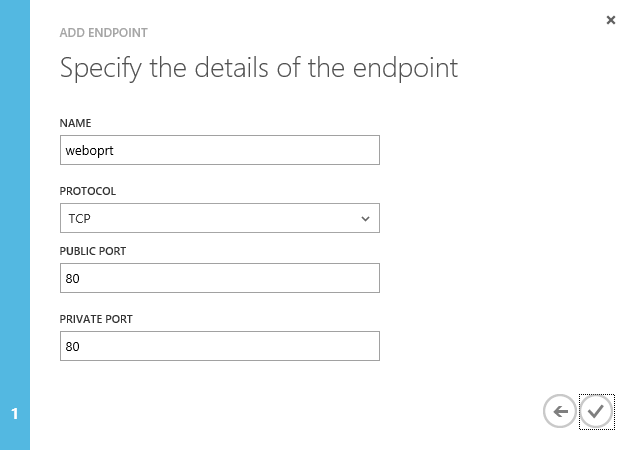
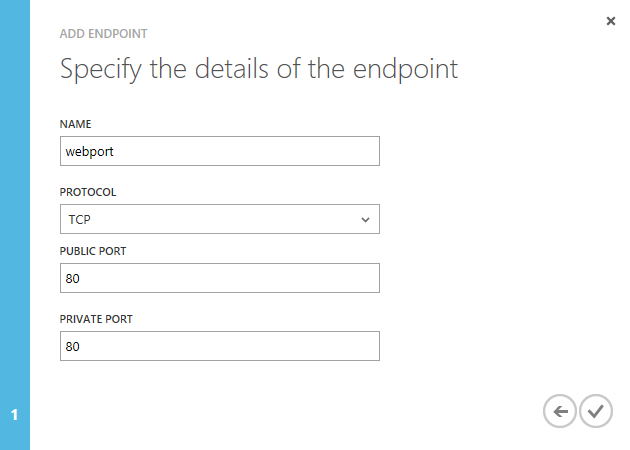
Fixed typos and namings

diff --git a/HOL.md b/HOL.md
@@ -18,7 +18,7 @@ In this hands-on lab, you will learn how to:
 - Create a Web Farm using Windows Azure Management Portal
 - Configure Load Balancing in IIS
 - Deploy a Simple MVC4 Application that consumes SQL Server Features
-- Create a VM with SQL Server Full-Text Search feature to be consumed by the MVC Application
+- Create a Virtual Machine with SQL Server Full-Text Search feature to be consumed by the MVC Application
 
 <a name="Prerequisites"></a>
 ### Prerequisites ###
@@ -34,8 +34,8 @@ The following is required to complete this hands-on lab:
 
 This hands-on lab includes the following exercises:
 
-1. [Creating VMs for IIS](#Exercise1)
-1. [Creating a SQL Server VM](#Exercise2)
+1. [Creating Virtual Machines for IIS](#Exercise1)
+1. [Creating a SQL Server Virtual Machine](#Exercise2)
 1. [Deploying a Simple MVC4 Application](#Exercise3)
 
 Estimated time to complete this lab: **45 minutes**.
@@ -62,7 +62,7 @@ In this task, you will provision a Virtual Machine and configure the Load Balanc
 
 1. In the Virtual Machine Configuration page, set the version release date to **February 12, 2013**. Enter the Virtual Machine Name (i.e. "iisvm1") and the administrator user's Password. This password needs to contain three of these – lower case characters, uppercase characters, numbers and special characters. Make sure you remember your choice. Click the right arrow to continue.
 
-	![Configuring a Custom VM](images/creating-a-vm-configuration.png?raw=true)
+	![Configuring a Custom Virtual Machine](images/creating-a-vm-configuration.png?raw=true)
 	 
 	_Creating a Virtual Machine - Configuration_
  
@@ -72,19 +72,19 @@ In this task, you will provision a Virtual Machine and configure the Load Balanc
  
 1. In the **Virtual Machine Mode** page, select **Standalone Virtual Machine**, enter the **DNS Name**, select a **Storage Account** or leave the default value _Use Automatically Generated Storage Account_, and select a **Region/Affinity Group/Virtual Network**. Click the **right arrow** to continue. 
 
-	![Configuring a Custom VM, VM Mode](images/creating-a-vm-vm-mode.png?raw=true)
+	![Configuring a Custom Virtual Machine, Virtual Machine Mode](images/creating-a-vm-vm-mode.png?raw=true)
  
-	_Creating a Virtual Machine - VM Mode_
+	_Creating a Virtual Machine - Virtual Machine Mode_
 
-1. In the **Virtual Machine Options** page, leave the default values and click the **Finish** button to create a new VM.
+1. In the **Virtual Machine Options** page, leave the default values and click the **Finish** button to create a new Virtual Machine.
 
-	![Creating a VM - VM Options](images/creating-a-vm--vm-options.png?raw=true "Creating a VM - VM Options")
+	![Creating a Virtual Machine - Virtual Machine Options](images/creating-a-vm--vm-options.png?raw=true "Creating a Virtual Machine - Virtual Machine Options")
 
 	_Creating a Virtual Machine - Virtual Machine Options_
 
-1. In the **Virtual Machines** section, you will see the Virtual Machine you created with a _Starting (provisioning)_ status. Wait until it changes to _Running_ in order to continue with the following step as you will need a provisioned VM on the following steps.
+1. In the **Virtual Machines** section, you will see the Virtual Machine you created with a _Starting (provisioning)_ status. Wait until it changes to _Running_ in order to continue with the following step as you will need a provisioned Virtual Machine on the following steps.
 
- 	![Creating VM for IIS Web Farm](./images/creating-vm-for-iis-web-farm.png?raw=true "Creating VM for IIS Web Farm")
+ 	![Creating Virtual Machine for IIS Web Farm](./images/creating-vm-for-iis-web-farm.png?raw=true "Creating Virtual Machine for IIS Web Farm")
  
 	_Creating Virtual Machine for IIS Web Farm_
 
@@ -92,21 +92,21 @@ In this task, you will provision a Virtual Machine and configure the Load Balanc
 
 1. You will now add the second Virtual Machine for the IIS Load Balancing. In the portal, select **New | Compute | Virtual Machine | From Gallery**. 
 
-1. In the **Virtual Machine OS Selection** page, click **Platform Images** on the left menu and select the **Windows Server 2008 R2 SP1, August** OS image from the list. Click the **arrow** to continue.	
+1. In the **Virtual Machine OS Selection** page, click **Platform Images** on the left menu and select the **Windows Server 2008 R2 SP1, February** OS image from the list. Click the **arrow** to continue.	
 
 1. In the **Virtual Machine Configuration** page, set the version release date to **February 12, 2013**. Enter the **Virtual Machine Name** (i.e. "_iisvm2_"), the administrator user's **Password** and the **Size**. Click the **right arrow** to continue.
  
 1. In the **Virtual Machine Mode** page, select **Connect to existing Virtual Machine** and choose the first virtual machine you created from the drop down list. Select a **Storage Account** or leave the default value _Use Automatically Generated Storage Account_ and click the **right arrow** to continue. This step adds the new virtual machine to the cloud service created in the previous step. This allows the virtual machines to be on the same network.
 
 
-	![Configuring a Custom VM, VM Mode](images/creating-a-vm-vm-mode2.png?raw=true)
+	![Configuring a Custom Virtual Machine, Virtual Machine Mode](images/creating-a-vm-vm-mode2.png?raw=true)
 	 
 	_Creating a Virtual Machine - Virtual Machine Mode_
 
  
 1. In the **Virtual Machine Options** page, leave the default values and click the button to create a new Virtual Machine.
 
-1. Wait until the second VM is created. You can check the VM status from the Virtual Machines section within the portal.
+1. Wait until the second Virtual Machine is created. You can check the Virtual Machine status from the Virtual Machines section within the portal.
 
 	> **Note:** It will take from 8 to 10 minutes for the virtual machine to complete the provisioning process.
 
@@ -134,9 +134,9 @@ In this task, you will provision a Virtual Machine and configure the Load Balanc
 
 1. Click **Add Endpoint**, select **Load Balance Traffic On An Existing Endpoint** option. Select the endpoint you created for the first Virtual Machine from the drop down list and then click the **right arrow** to continue.
 
-	![Load Balance Traffic An Existing Endpoint](images/load-balance-traffic-an-an-existing-endpoint.png?raw=true "Load Balance Traffic An Existing Endpoint")
+	![Load Balance Traffic On An Existing Endpoint](images/load-balance-traffic-an-an-existing-endpoint.png?raw=true "Load Balance Traffic An Existing Endpoint")
 
-	_Load Balance Traffic An Existing Endpoint_
+	_Load Balance Traffic On An Existing Endpoint_
 
 1. In the **New Endpoint Details** page, set the **Name** to _webport_ and the **Private Port** to _80_. Click the button to create the endpoint. 
 
@@ -150,14 +150,14 @@ In this task, you will provision a Virtual Machine and configure the Load Balanc
 
 	_Verification: enabling IIS Load Balancing_
 
-1. Click the **Edit Endpoint** button in the bottom bar to enter the endpoint details and verify the load balancing is enabled. Repeat this step in the second VM.
+1. Click the **Edit Endpoint** button in the bottom bar to enter the endpoint details and verify the load balancing is enabled. Repeat this step in the second Virtual Machine.
 
 	![Verification: enabling IIS Load Balancing, details](images/creating-load-balancing-endpoint-2.png?raw=true)
 
 	_Verification: enabling IIS Load Balancing, details_
 
 <a name="Ex1Task2"></a>
-#### Task 2 - Configuring IIS VMs ####
+#### Task 2 - Configuring IIS Virtual Machines ####
 
 In this task, you will configure the IIS Virtual Machines by adding the necessary roles to deploy the MVC application.
 
@@ -222,12 +222,12 @@ In this task, you will configure the IIS Virtual Machines by adding the necessar
 <a name="Exercise2"></a>
 ### Exercise 2: Creating a SQL Server Virtual Machine ###
 
-In this exercise, you will create a new VM and learn how to install SQL Server. You will add disk images to the existing Virtual Machine in order to split the data from the logs generated by SQL Server.
+In this exercise, you will create a new Virtual Machine and learn how to install SQL Server. You will add disk images to the existing Virtual Machine in order to split the data from the logs generated by SQL Server.
 
 <a name="Ex2Task1"></a>
-#### Task 1 - Creating a SQL Server VM ####
+#### Task 1 - Creating a SQL Server Virtual Machine ####
 
-In this task, you will create a new Virtual Machine using the Windows Azure portal in the same Cloud App you deployed the IIS VMs.
+In this task, you will create a new Virtual Machine using the Windows Azure portal in the same Cloud App you deployed the IIS Virtual Machines.
 
 1. In the menu located at the bottom, select **New | Compute | Virtual Machine | From Gallery** to start creating a new virtual machine.
  
@@ -239,7 +239,7 @@ In this task, you will create a new Virtual Machine using the Windows Azure port
  
 1. In the **Virtual Machine Options** page, leave the default values and click the button to create a new Virtual Machine.
 
-1. In the **Virtual Machines** section, you will see the VM you created with a _provisioning_ status. Wait until it changes to _Running_ in order to continue with the following step.
+1. In the **Virtual Machines** section, you will see the Virtual Machine you created with a _provisioning_ status. Wait until it changes to _Running_ in order to continue with the following step.
 
 	> **Note:** It will take from 8 to 10 minutes for the Virtual Machine to complete the provisioning process.
 
@@ -270,7 +270,7 @@ In this task, you will create two empty data disks and attach them to an existin
 
 1. Finally, you need to format the disks in order to access them from the Virtual Machine. To do this, click **Connect** to connect to the Virtual Machine using **Remote Desktop connection**.
 
-1. It will ask you to download the remote desktop settings file. Click **Open** and log on using the Admin credentials you defined when creating the VM.
+1. It will ask you to download the remote desktop settings file. Click **Open** and log on using the Admin credentials you defined when creating the Virtual Machine.
 
 1. In the Virtual Machine, open **Server Manager** from **Start | Administrative Tools**.
 
@@ -324,7 +324,7 @@ In this task, you will configure SQL Server 2012. You will create the database t
 
 1. Restart SQL Server. In the **Object Explorer**, right-click on the server node and select **Restart**. 
 
-1.	In order to enable downloads from Internet Explorer you will need to update **Internet Explorer Enhanced Security Configuration**. In the Azure VM, open **Server Manager** from **Start | Administrative Tools | Server Manager**.
+1.	In order to enable downloads from Internet Explorer you will need to update **Internet Explorer Enhanced Security Configuration**. In the Azure Virtual Machine, open **Server Manager** from **Start | Administrative Tools | Server Manager**.
 
 1. In the **Server Manager**, click **Configure IE ESC** within **Security Information** section.
 
@@ -338,7 +338,7 @@ In this task, you will configure SQL Server 2012. You will create the database t
 	 
 	_Internet Explorer Enhanced Security_
  
-	>**Note:** Modifying **Internet Explorer Enhanced Security** configurations is not good practice and is only for the purpose of this particular lab. The correct approach should be to download the files locally and then copy them to a shared folder or directly to the VM.
+	>**Note:** Modifying **Internet Explorer Enhanced Security** configurations is not good practice and is only for the purpose of this particular lab. The correct approach should be to download the files locally and then copy them to a shared folder or directly to the Virtual Machine.
 
 1. This lab uses the **AdventureWorks** database. Open an **Internet Explorer** browser and go to <http://msftdbprodsamples.codeplex.com/> to download  the **SQL Server 2012** sample databases. Once on the page click on **AdventureWorks Databases – 2008, 2008R2 and 2012** and then download Adventure Works 2012 Data File. Download the file to F:\Data.
 
@@ -456,9 +456,9 @@ In this task, you will configure SQL Server 2012. You will create the database t
 
 1. In the **Action** page, make sure that **Allow the connection** is selected and click **Next**.
 
- 	![New Inbound Rule Wizard(3)](images/new-inbound-rule-wizard3.png?raw=true)
+ 	![Protocol and Ports(3)](images/new-inbound-rule-wizard3.png?raw=true)
  
-	_New Inbound Rule Wizard_
+	_Protocol and Ports_
 
 1. In the **Profile** page, leave the default values and click **Next**.
 
@@ -486,17 +486,17 @@ In this exercise, you will learn how to deploy a simple ASP.NET MVC4 application
 <a name="Ex3Task1"></a>
 #### Task 1 - Deploying a Simple MVC4 Application ####
 
-In this task, you will deploy the MVC4 application to the IIS VMs.
+In this task, you will deploy the MVC4 application to the IIS Virtual Machines.
 
 1. In the Azure Portal, Click **Virtual Machines** on the left menu.
 
-1. You will see a list with your existing VMs. Select the first one you created in Exercise 1 and click **Connect**. If you used the proposed name, this VM's should be named **iisvm1**.
+1. You will see a list with your existing Virtual Machines. Select the first one you created in Exercise 1 and click **Connect**. If you used the proposed name, this Virtual Machine's should be named **iisvm1**.
 
-1. You will be prompted to download the remote desktop client. Click **Open** and log on using the Admin credentials you defined when creating the VM.
+1. You will be prompted to download the remote desktop client. Click **Open** and log on using the Admin credentials you defined when creating the Virtual Machine.
 
 1. You need to install **.NET Framework 4.0** before deploying the MVC4 application. In order to do that, you will enable downloads from IE update **Internet Explorer Enhanced Security Configuration**.
 
-	1. In the Azure VM, open Server Manager from **Start | Administrative Tools**.
+	1. In the Azure Virtual Machine, open Server Manager from **Start | Administrative Tools**.
 
 	1. In the **Server Manager**, click **Configure IE ESC** **within Security Information** **section**.
 
@@ -510,17 +510,17 @@ In this task, you will deploy the MVC4 application to the IIS VMs.
  
 		_Internet Explorer Enhanced Security_
 
-		> **Note:** Modifying Internet Explorer Enhanced Security configurations is not a good practice and it only for the purpose of this particular lab. The correct approach would be to download the files locally and then copy them to a shared folder or directly to the VM.
+		> **Note:** Modifying Internet Explorer Enhanced Security configurations is not a good practice and it only for the purpose of this particular lab. The correct approach would be to download the files locally and then copy them to a shared folder or directly to the Virtual Machine.
 
 1. Now that you have permissions to download files, open an **Internet Explorer** browser session and navigate to [http://go.microsoft.com/fwlink/?linkid=186916](http://go.microsoft.com/fwlink/?linkid=186916). Download and install **.NET Framework 4.0**.
 
-1. Once **.Net Framework 4.0** installation finishes, open **wwwroot** folder located at **C:\inetpub\** and copy the file **CloudShop.zip** located in **CloudShop\Source\Assets** folder of this lab. To do this, copy **CloudShop.zip** (**Ctrl + C**) and paste it (**Ctrl + V**) in the VM's **wwwroot** folder. Extract all files to **C:\inetpub\wwwroot\CloudShop** folder.
+1. Once **.Net Framework 4.0** installation finishes, open **wwwroot** folder located at **C:\inetpub\** and copy the file **CloudShop.zip** located in **CloudShop\Source\Assets** folder of this lab. To do this, copy **CloudShop.zip** (**Ctrl + C**) and paste it (**Ctrl + V**) in the Virtual Machine's **wwwroot** folder. Extract all files to **C:\inetpub\wwwroot\CloudShop** folder.
 
  	![wwwroot folder](./images/wwwroot-folder.png?raw=true "wwwroot folder")
  
 	_wwwroot folder_
 
-1. Open with **Notepad** the **Web.config** file located in **C:\inetpub\wwwroot\CloudShop**. At the end of the file, replace the connection strings placeholder with the name of your SQL Server (by default, is the VM's name).
+1. Open with **Notepad** the **Web.config** file located in **C:\inetpub\wwwroot\CloudShop**. At the end of the file, replace the connection strings placeholder with the name of your SQL Server (by default, is the Virtual Machine's name).
 
 	<!--mark: 1-4-->
 	````XML
@@ -572,7 +572,7 @@ In this task, you will deploy the MVC4 application to the IIS VMs.
 
 1. Close the **Remote Desktop Connection**.
 
-1. Repeat this task in the second VM you created in **Exercise 1 -Task 1**. If you used the proposed name, this VM should be named **iisvm2**.
+1. Repeat this task in the second Virtual Machine you created in **Exercise 1 -Task 1**. If you used the proposed name, this Virtual Machine should be named **iisvm2**.
 
 <a name="Verification"></a> 
 #### Verification ####
@@ -581,7 +581,7 @@ In this task, you will test the Cloud Shop MVC4 application you deployed in the 
 
 1. In your local machine, open **Internet Explorer**.
 
-1. Go to http://[**YOUR-SERVICE-NAME**].cloudapp.net/CloudShop. The Service Name is the one you used when creating the IIS VMs (you can also check it in the Azure Portal, within VM's dashboard).
+1. Go to http://[**YOUR-SERVICE-NAME**].cloudapp.net/CloudShop. The Service Name is the one you used when creating the IIS Virtual Machines (you can also check it in the Azure Portal, within Virtual Machine's dashboard).
 
  	![MVC4 Application running in the Web Farm](./images/MVC4-Application-running-in-the-Web-Farm.png?raw=true "MVC4 Application running in the Web Farm")
  
